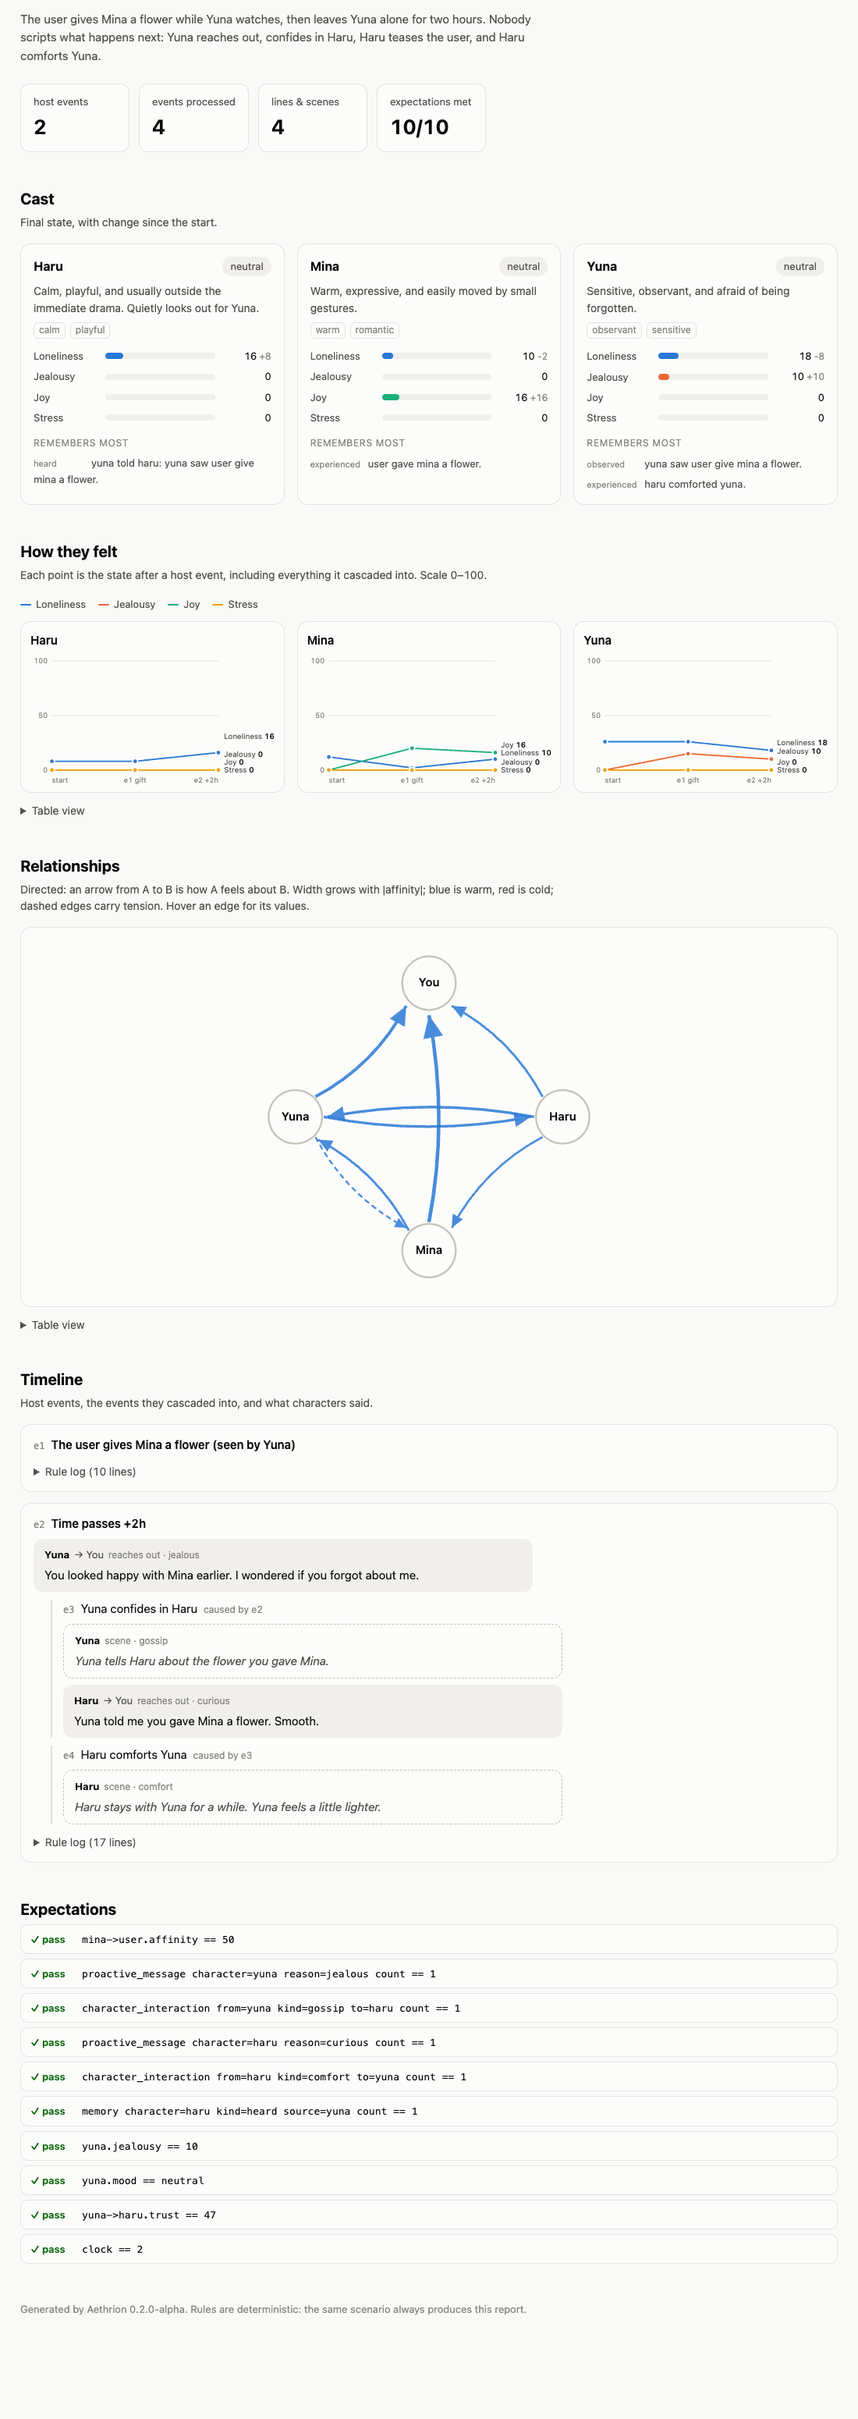
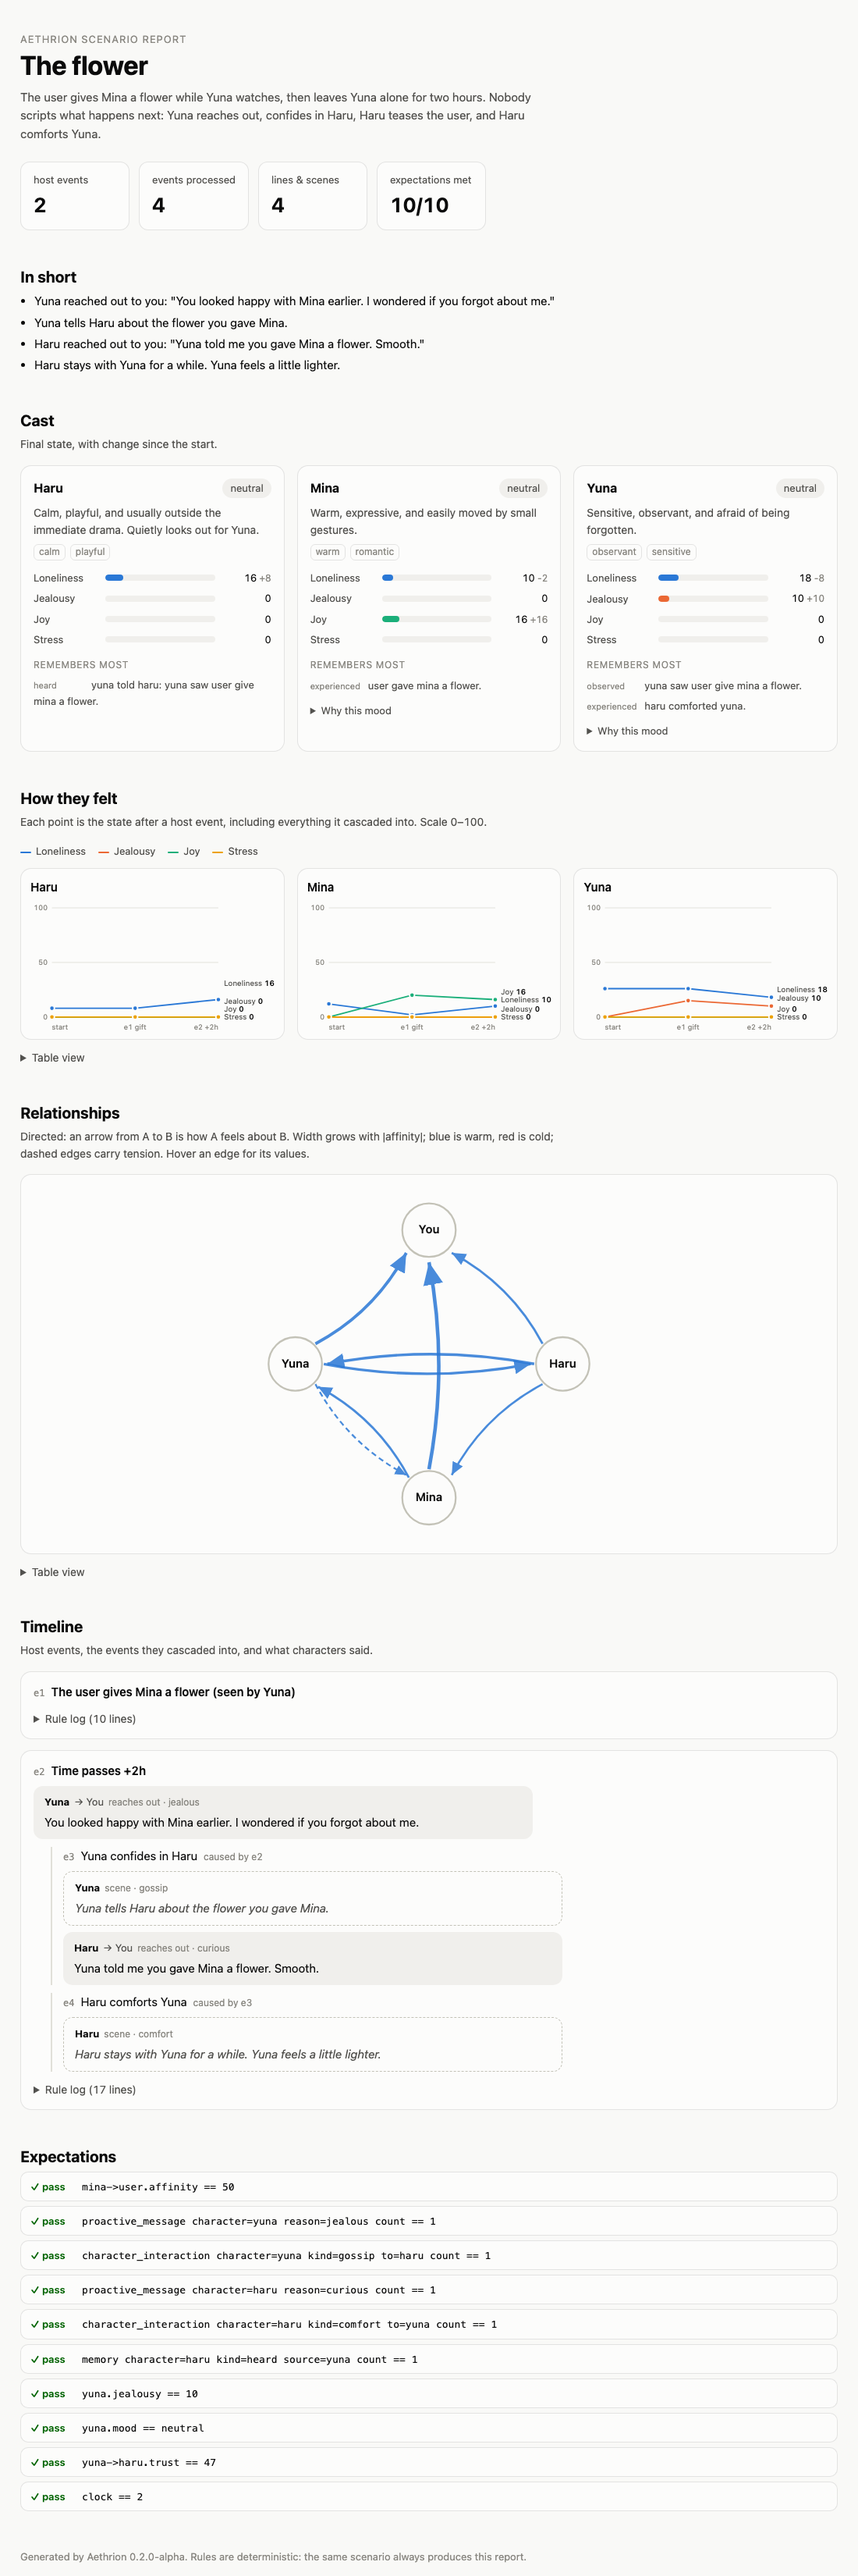
Refresh the README's report screenshot

diff --git a/README.ko.md b/README.ko.md
@@ -187,7 +187,7 @@ Adapter: `Aethrion.LLM.Anthropic`, `Aethrion.LLM.OpenAICompatible`(OpenAI, vLLM,
 }
 ```
 
-<img src="assets/report/the-flower.png" alt="Aethrion 시나리오 리포트: 등장인물, 감정 변화, 관계 그래프, 타임라인" width="720">
+<img src="assets/report/the-flower.png" alt="Aethrion 시나리오 리포트: 요약, 등장인물, 감정 변화, 관계 그래프, 타임라인" width="720">
 
 번들 시나리오: the flower, the apology, words matter(톤), rumor mill(신뢰 그래프를 따라 퍼지는 소문), long silence(외로움과 희미해지는 기억), small town(같은 규칙, 다른 튜닝), crossroads(한 순간, 네 갈래의 분기를 나란히 비교), old friends(대화가 희미해지며 오래 남는 인상으로 통합됨), benefit of the doubt(같은 날카로운 말도 관계 이력에 따라 다르게 받아들여짐), company(사용자가 없는 동안 친구끼리 곁을 지켜 줌), two regulars(두 사람이 있을 때 메시지가 알맞은 사람에게 감), word gets around(친구 앞에서 한 모진 말이 평판이 됨), slowly closer(일주일간의 작은 친절로 관계 단계가 한 칸씩 가까워짐). [docs/scenarios.md](docs/scenarios.md)를 참고하세요.
 

diff --git a/README.md b/README.md
@@ -182,7 +182,7 @@ Scenarios are JSON files with a world, a script of events, and expectations. The
 }
 ```
 
-<img src="assets/report/the-flower.png" alt="Aethrion scenario report: cast, feelings over time, relationship graph, and timeline" width="720">
+<img src="assets/report/the-flower.png" alt="Aethrion scenario report: summary, cast, feelings over time, relationship graph, and timeline" width="720">
 
 Bundled scenarios: the flower, the apology, words matter (tone), rumor mill (news spreading through a trust graph), long silence (loneliness and fading memory), small town (the same rules, tuned differently), crossroads (one moment, four branches, compared side by side), old friends (conversations fading into lasting impressions), benefit of the doubt (the same harsh words landing differently depending on history), company (friends keeping each other company while the user is away), two regulars (two people, each message going to the right one), word gets around (a harsh word in front of a friend becoming a reputation), and slowly closer (a week of small kindnesses, bond by bond). See [docs/scenarios.md](docs/scenarios.md).
 
